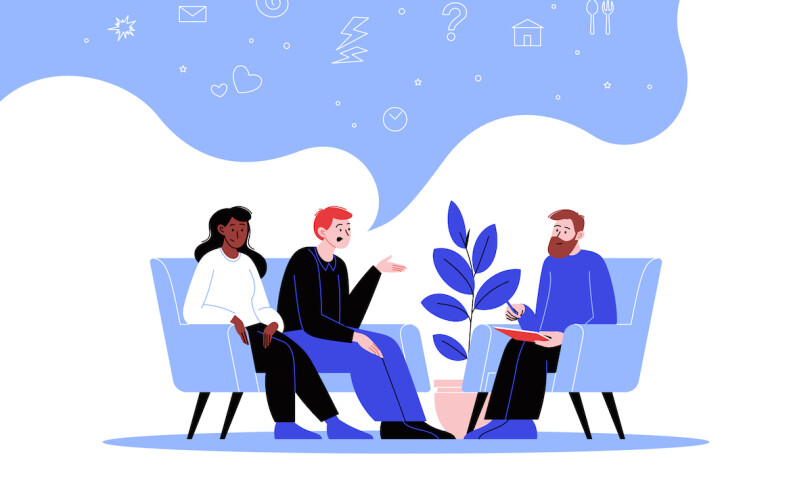
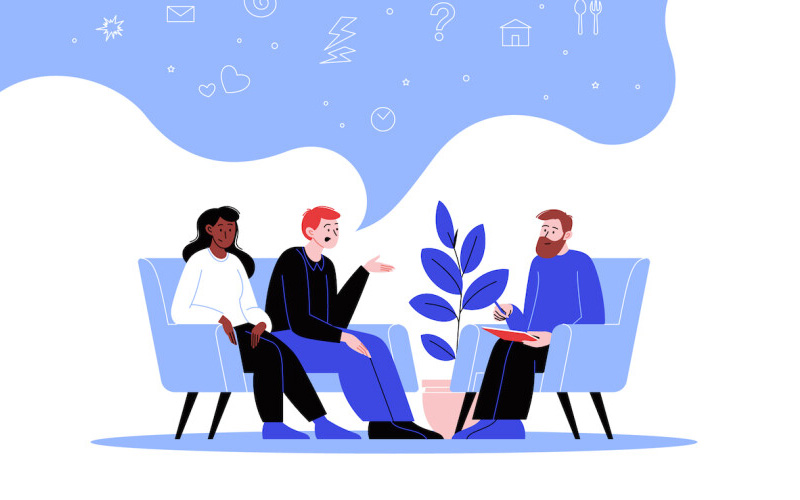
resized lesson images within the assets folder

diff --git a/app/assets/stylesheets/pages/_lessons.scss b/app/assets/stylesheets/pages/_lessons.scss
@@ -1,0 +1,34 @@
+.container-card {
+  height: 100%;
+  background-color: purple;
+  border-radius: 2rem;
+  display: flex;
+  justify-content: center;
+}
+
+.content-card {
+  margin-top: 1rem;
+  margin-bottom: 1rem;
+}
+
+.lesson-img {
+  border-radius: 2rem;
+  width: 28rem;
+  height: auto;
+}
+
+.btn {
+margin-top: 1rem;
+margin-bottom: 0.5rem;
+}
+
+
+.card-body {
+  border-radius: 2rem;
+}
+
+.lesson-name {
+  color: white;
+  font-size: 2rem;
+  margin-bottom: 1rem;
+}

diff --git a/app/assets/stylesheets/pages/_index.scss b/app/assets/stylesheets/pages/_index.scss
@@ -1,2 +1,3 @@
 // Import page-specific CSS files here.
 @import "home";
+@import "lessons";
